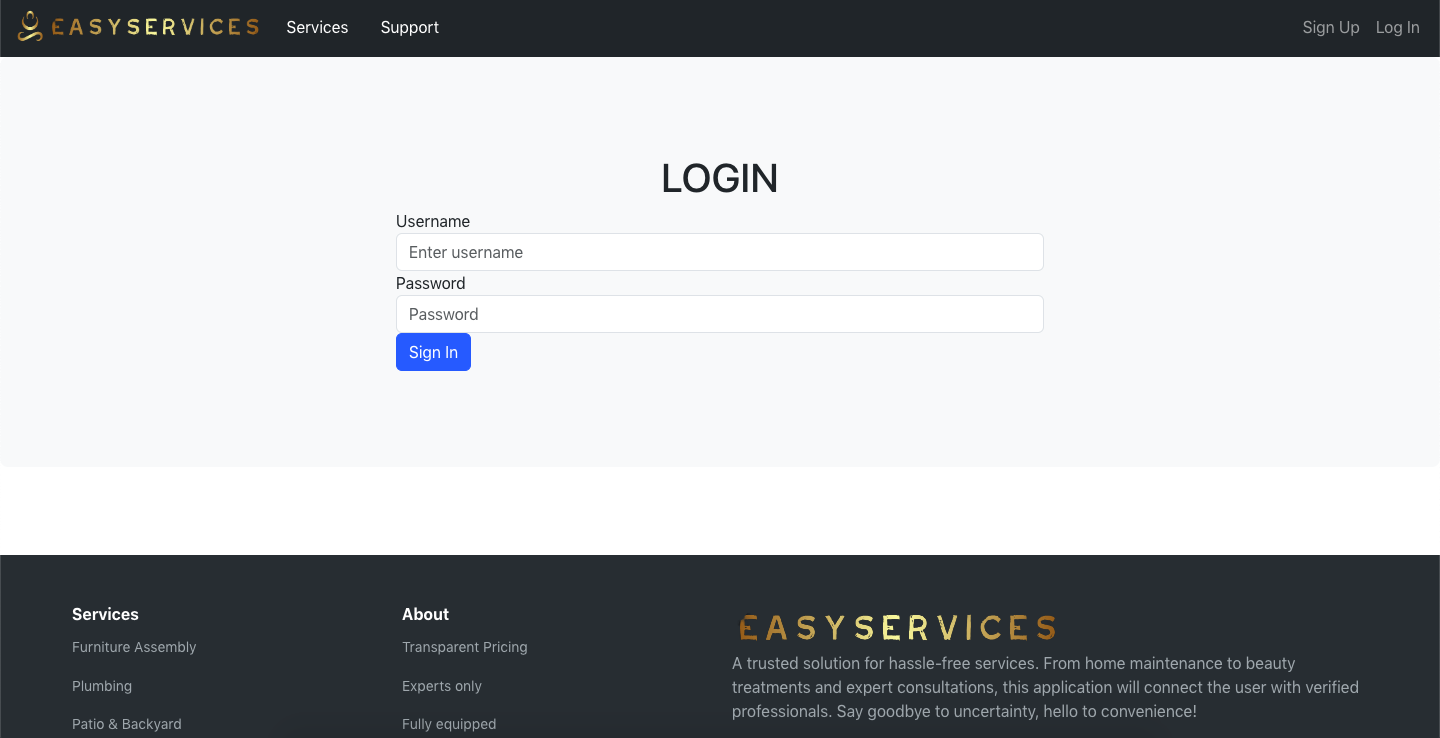
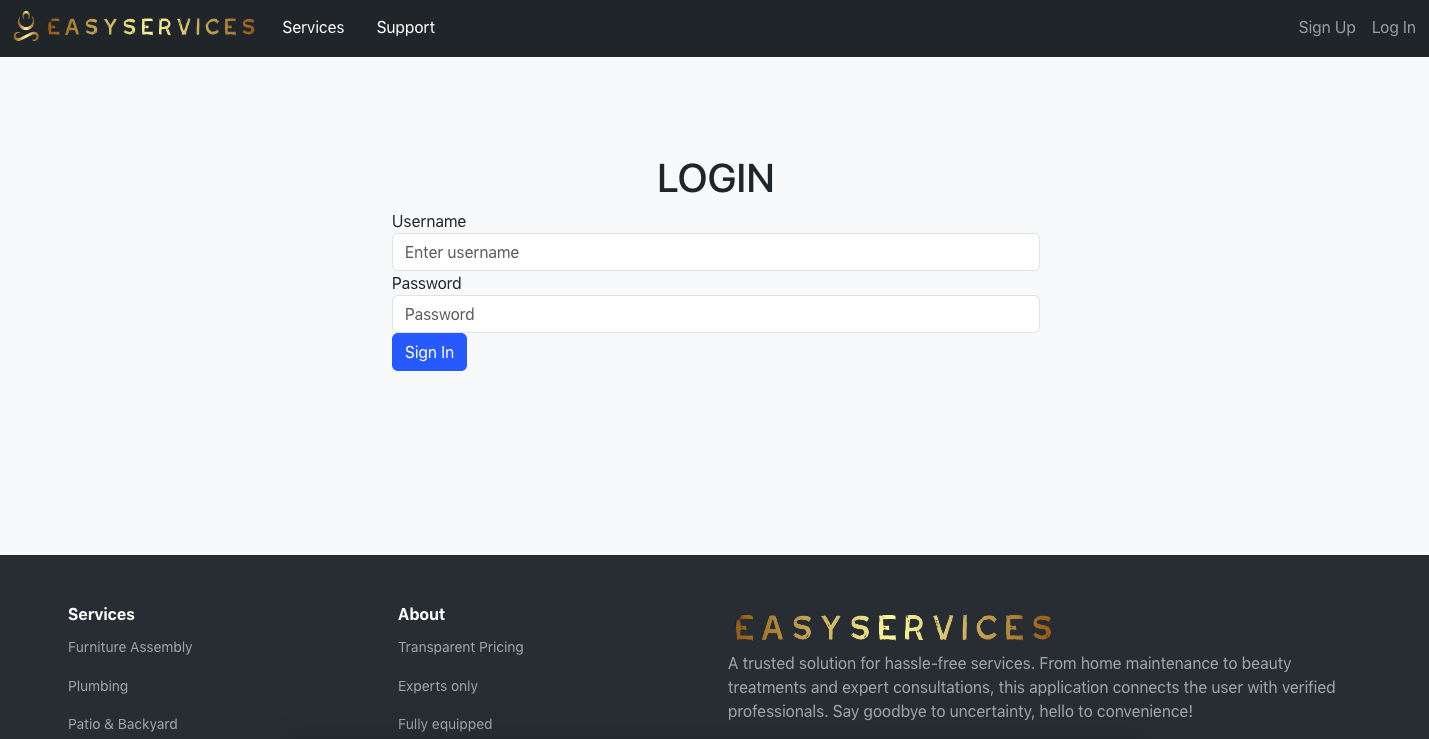
background color + README changes

diff --git a/src/App.scss b/src/App.scss
@@ -4,4 +4,6 @@
     padding-bottom: 4rem;
     min-height: 100%;
     // font-family: "Helvetica Neue", Arial, sans-serif;
+    background-color: rgba(var(--bs-light-rgb), var(--bs-bg-opacity)) !important;
+    --bs-bg-opacity: 1;
 }
